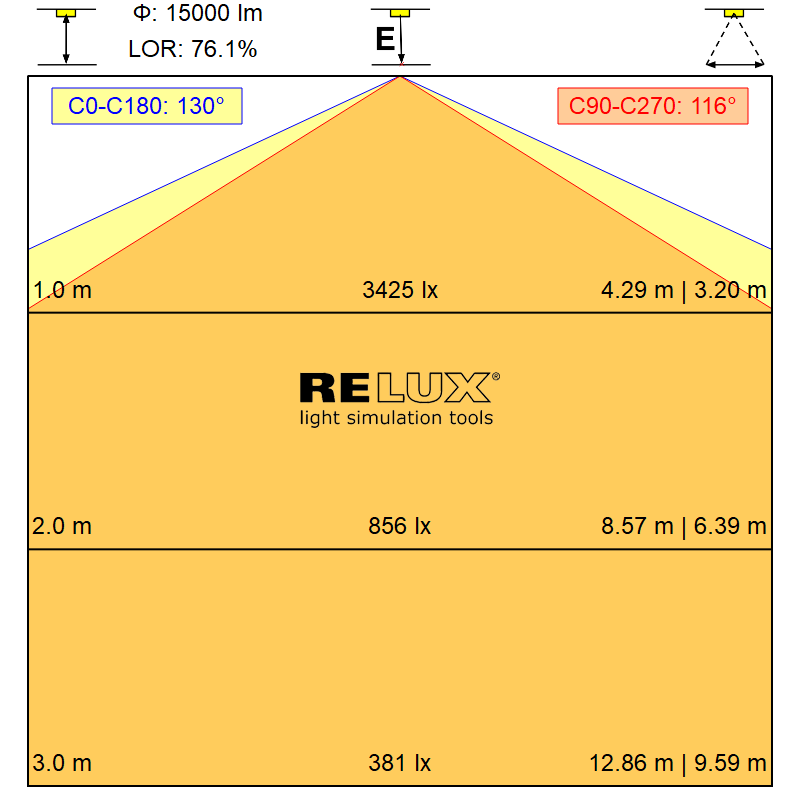
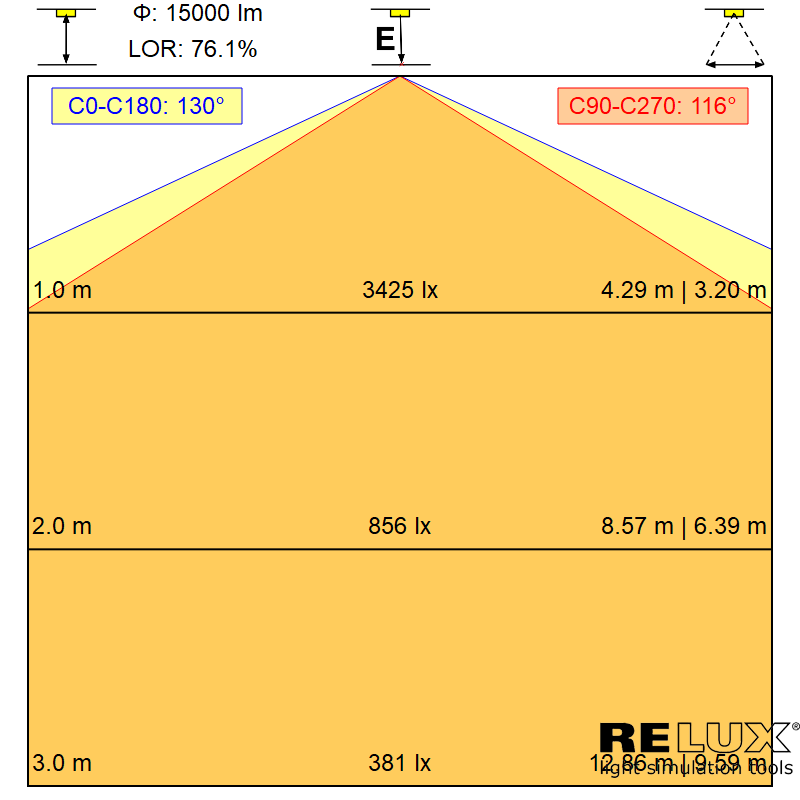
fixed watermark location option
The Watermark is placed correctly but in the preview it is always in the middle!?

Changed region(s): [[0.75, 0.9062, 1.0, 0.9688], [0.375, 0.4688, 0.625, 0.5312]]

diff --git a/WaterMarky.php b/WaterMarky.php
@@ -101,6 +101,7 @@
                             </select>
                         </div>  
                         <div class="col">
+                            <button class="btn btn-primary" type="submit" name="submit" id="download">Do The Image Magic</button>
                         </div>
                     </div> 
                 </div> 
@@ -109,12 +110,12 @@
 
         <!-- DOWNLOAD -->
         <div class="container"> 
-            <form action="enchant_pictures.php" method="post">
+            <form action="download.php" method="post">
                 <h6>Download</h6>
                 <div class="form-group">
                     <div class="form-row">
                         <div class="col">
-                            <select id="inputState" class="form-control">
+                            <select id="format" class="form-control">
                                 <option selected>Choose format...</option>
                                 <option>jpg</option>
                                 <option>png</option>
@@ -124,7 +125,7 @@
                             </select>
                         </div>
                         <div class="col">
-                            <button class="btn btn-primary" type="submit" name="submit" id="download">Do The Image Magic</button>
+                            <button class="btn btn-primary" type="submit" name="submit" id="download">Download</button>
                         </div>
                     </div>
                 </div>

diff --git a/enchant_pictures.php b/enchant_pictures.php
@@ -1,9 +1,9 @@
 <?php    
     session_start();                    
     //debug
-    //echo '<pre>';
-    //print_r($_POST);
-    //echo '</pre>';
+    echo '<pre>';
+    print_r($_POST);
+    echo '</pre>';
 
     /** sends a notification message and redirects to WaterMarky.php
      * @param msg message to confirm 
@@ -48,10 +48,8 @@
         // Check if a location was selected
         // Check which location was chosen
         // Calculate the position
-        echo $_SESSION['location'];
-
-        if (isset($_SESSION['location'])) {
-            switch ($_SESSION['location']) {
+        if (isset($_POST['inputLocation'])) {
+            switch ($_POST['inputLocation']) {
 
                 case 'top-left':
                     // top left
@@ -86,6 +84,6 @@
         $image->writeImage(getcwd(). "/enchanted_pics/pic_watermark." . $image->getImageFormat()); 
         $_SESSION['preview_pic'] = "enchanted_pics/pic_watermark." . $image->getImageFormat();
 
-        //return popMsg("Successfully enchanted picture");
+        return popMsg("Successfully enchanted picture");
     }
 ?>
